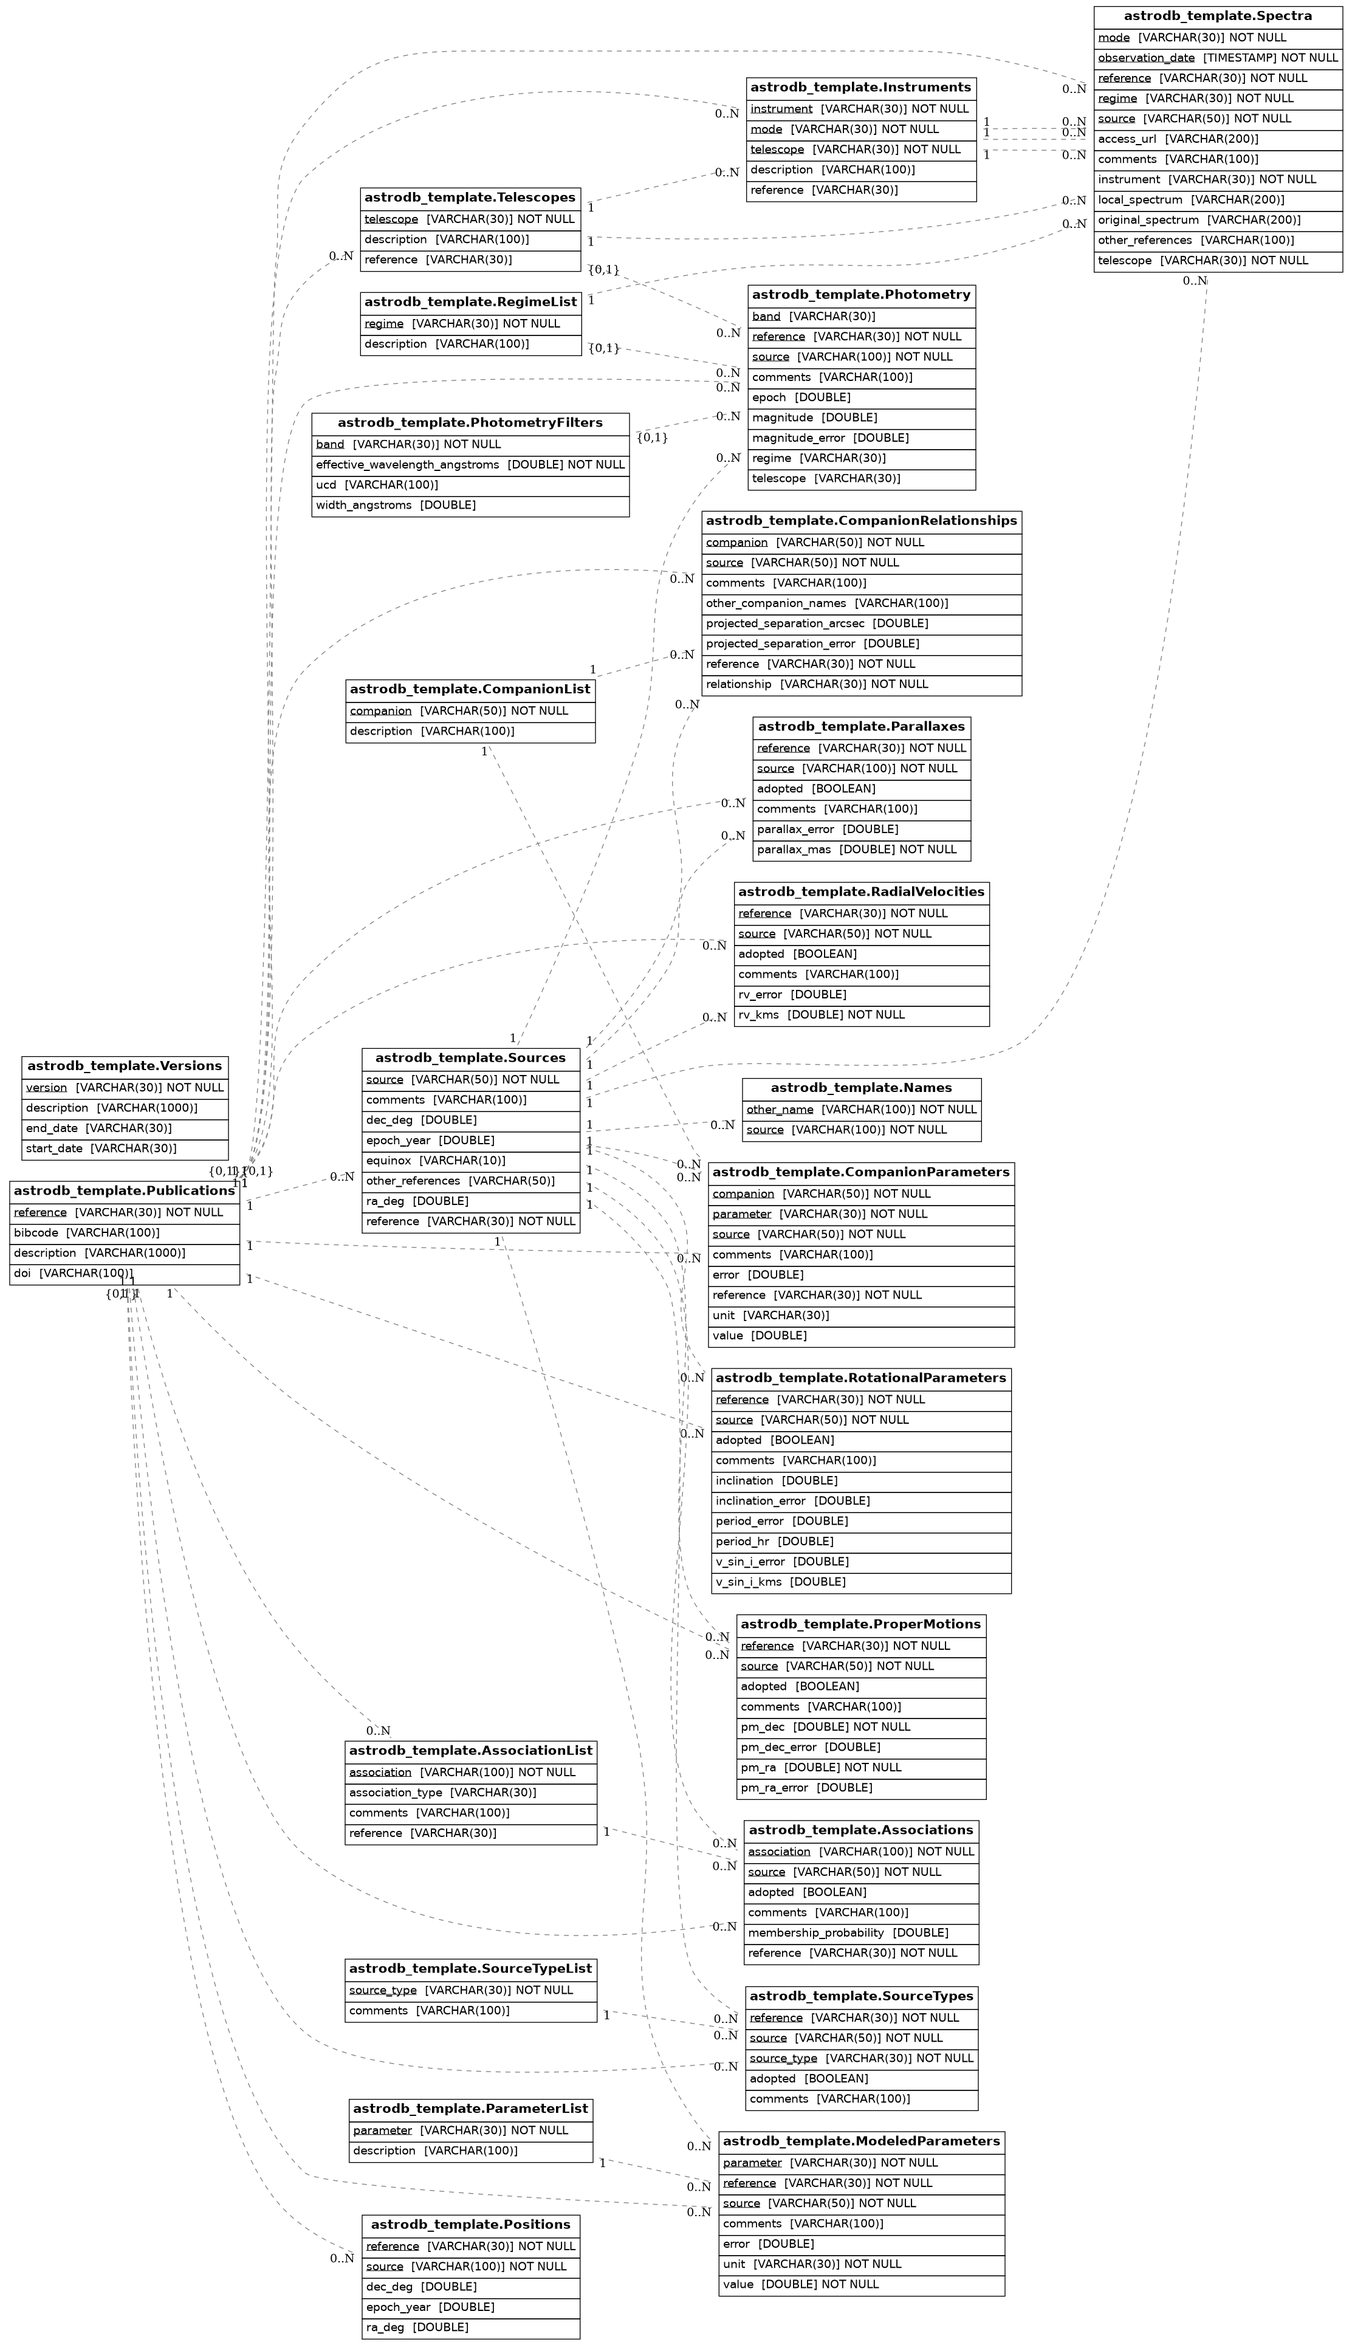
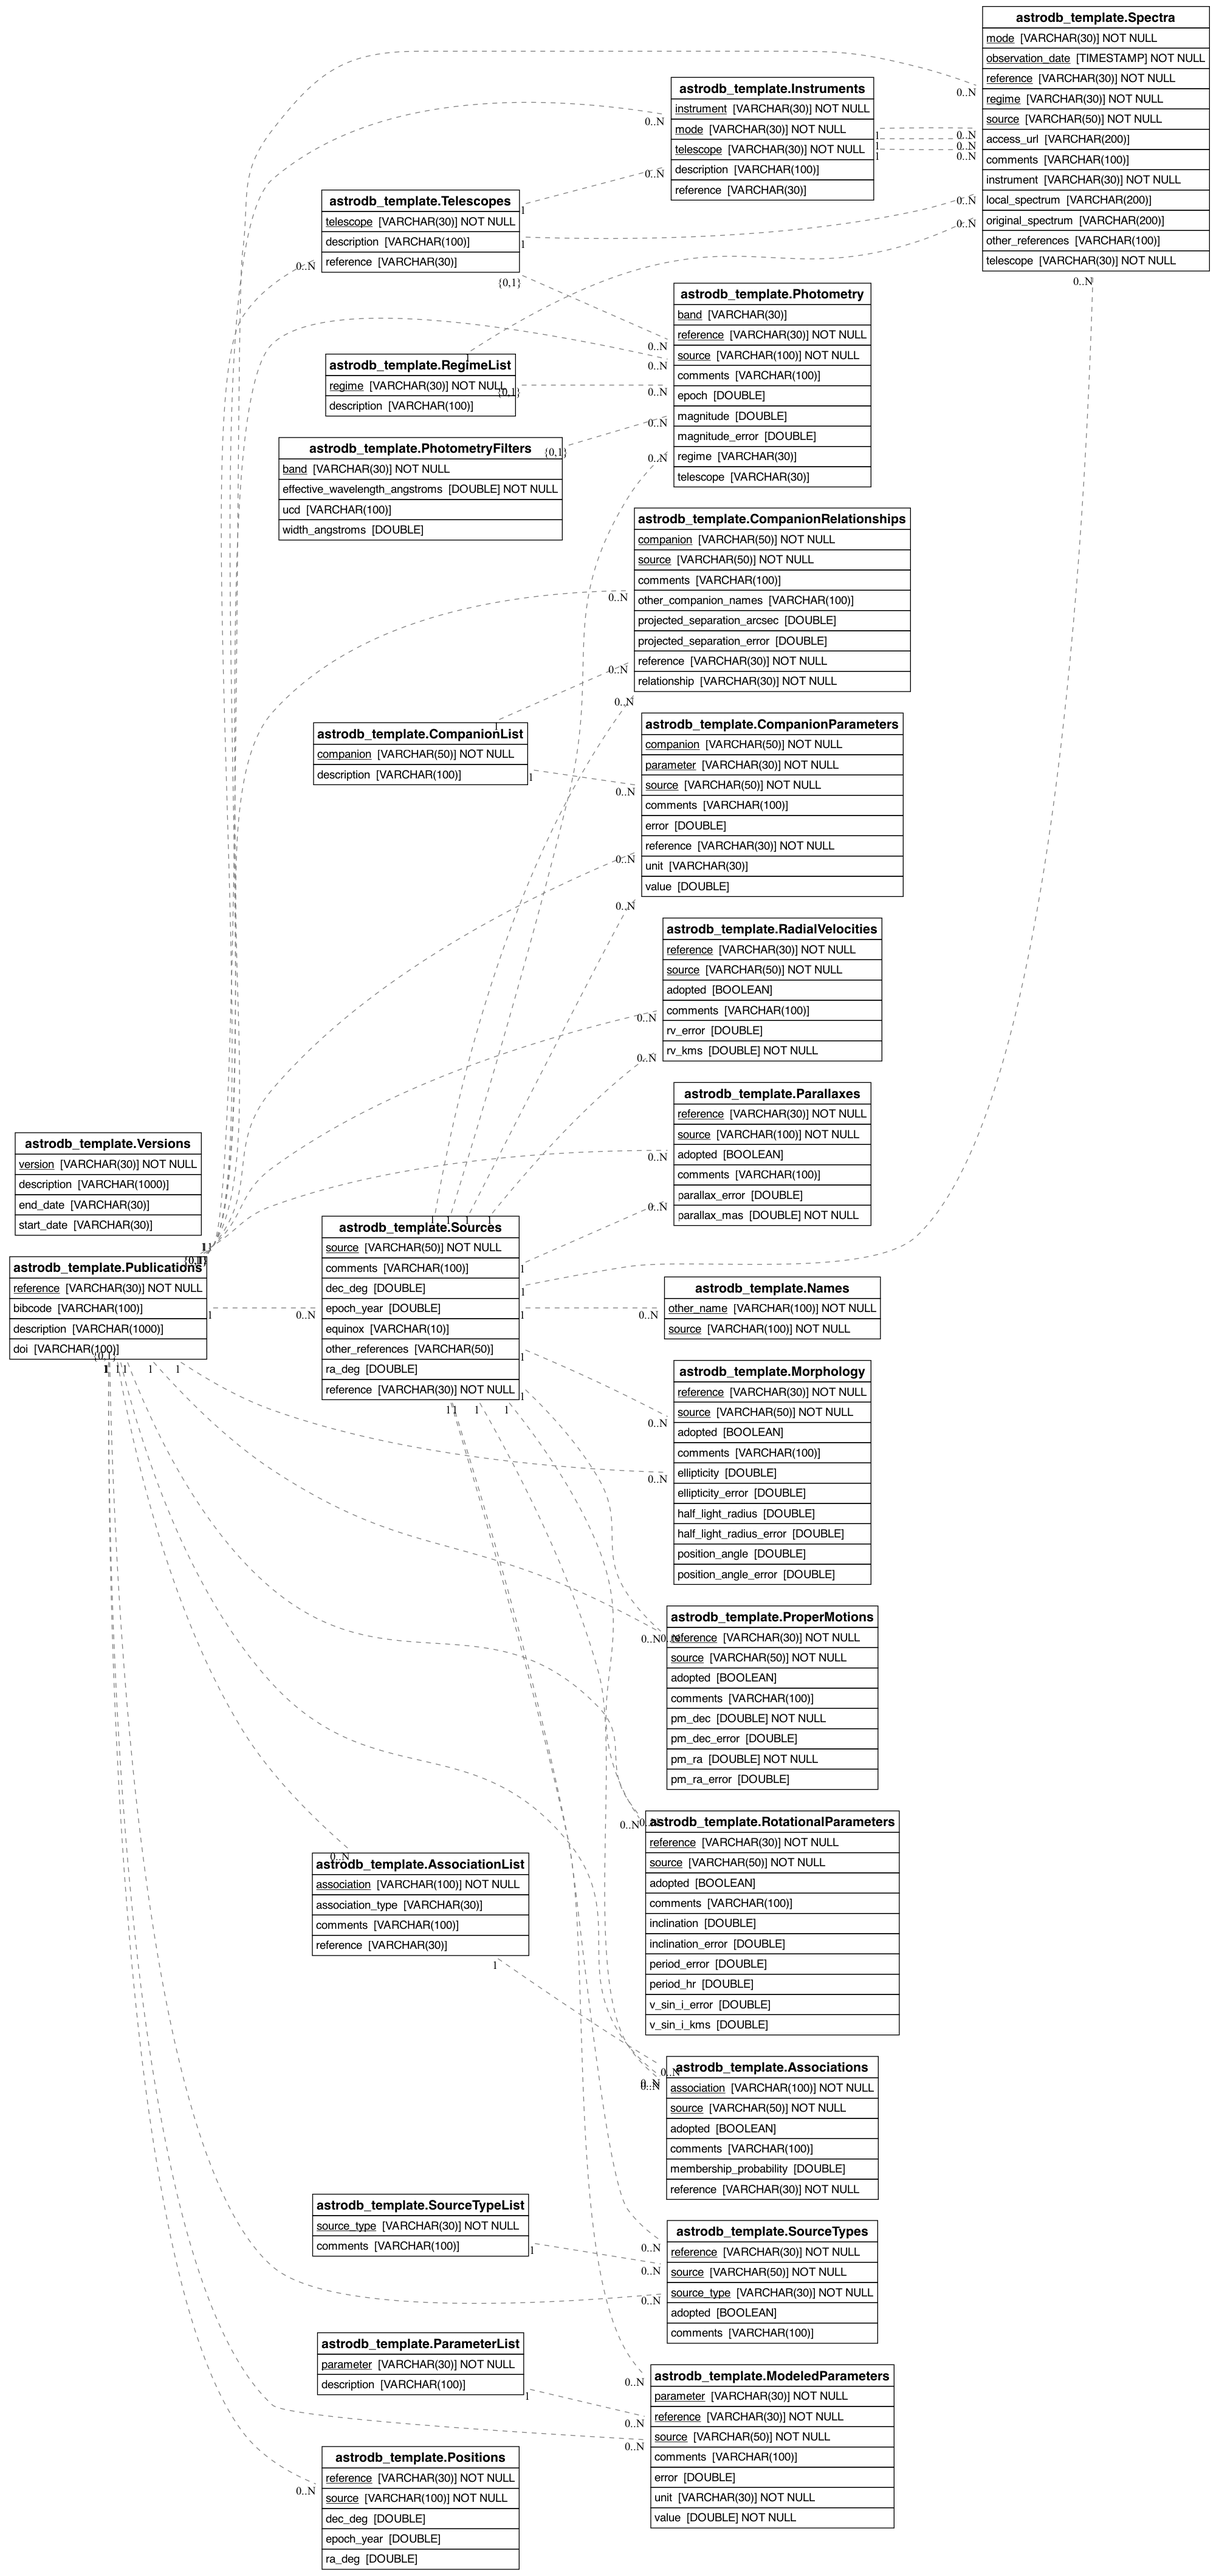
Create Morphology table

diff --git a/scripts/build_schema_docs.py b/scripts/build_schema_docs.py
@@ -1,8 +1,8 @@
-# Script to build markdown documentation from the schema/schema.yaml file
+# Script to build markdown documentation from the schema.yaml file
 import os
 import yaml
 
-SCHEMA_PATH = "schema/schema.yaml"
+SCHEMA_PATH = "schema.yaml"
 DOCS_DIR = "docs/"
 SCHEMA_DIAGRAM = "figures/schema_erd.png"
 SCHEMA_SUB_DIR = "schema/"

diff --git a/scripts/make_schema_erd.py b/scripts/make_schema_erd.py
@@ -10,7 +10,7 @@ from felis.metadata import MetaDataBuilder
 sys.path.append("./")  # needed for github actions to find the template module
 
 # Load up schema
-data = yaml.safe_load(open("schema/schema.yaml", "r"))
+data = yaml.safe_load(open("schema.yaml", "r"))
 schema = Schema.model_validate(data)
 
 # Create from Felis schema

diff --git a/docs/schema/Morphology.md b/docs/schema/Morphology.md
@@ -1,0 +1,32 @@
+# Morphology
+The Morphology table contains morphological measurements for sources listed in the Sources table. The combination of *source* and *reference* is expected to be unique.
+
+
+Columns marked with an exclamation mark (❗) may not be empty.
+| Column Name | Description | Datatype | Length | Units  | UCD |
+| --- | --- | --- | --- | --- | --- |
+| ❗ <ins>source</ins> | Unique identifier for a source; links to Sources table | string | 50 |  | meta.id;meta.main  |
+| position_angle | Position angle of the source | double |  | deg | pos.posAng  |
+| position_angle_error | Uncertainty of the position angle | double |  | deg | stat.error;pos.posAng  |
+| ellipticity | Ellipticity of the source (0-1) | double |  |  | phys.size.axisRatio  |
+| ellipticity_error | Uncertainty of the ellipticity | double |  |  | stat.error;phys.size.axisRatio  |
+| half_light_radius | Half-light radius of the source | double |  | arcmin | phys.size  |
+| half_light_radius_error | Uncertainty of the half-light radius | double |  | arcmin | stat.error;phys.size  |
+| adopted | Flag to indicate if this is the adopted entry | boolean |  |  | meta.code  |
+| comments | Free form comments | string | 100 |  | meta.note  |
+| ❗ <ins>reference</ins> | Reference; links to Publications table | string | 30 |  | meta.ref  |
+
+## Indexes
+| Name | Columns | Description |
+| --- | --- | --- |
+| PK_Morphology | ['#Morphology.source', '#Morphology.reference'] | Primary key for Morphology table |
+
+## Foreign Keys
+| Description | Columns | Referenced Columns |
+| --- | --- | --- |
+| Link Morphology source to Sources table | ['#Morphology.source'] | ['#Sources.source'] |
+| Link Morphology reference to Publications table | ['#Morphology.reference'] | ['#Publications.reference'] |
+## Checks
+| Description | Expression |
+| --- | --- |
+| Validate ellipticity range | ellipticity >= 0 AND ellipticity <= 1 |

diff --git a/docs/README.md b/docs/README.md
@@ -1,5 +1,5 @@
 # Schema Documentation
-This documentation is generated from the [schema.yaml](schema/schema.yaml) file using [build_schema_docs.py](scripts/build_schema_docs.py).
+This documentation is generated from the [schema.yaml](schema.yaml) file using [build_schema_docs.py](scripts/build_schema_docs.py).
 
 ## Tables
 - [Publications](schema/Publications.md)
@@ -25,8 +25,9 @@ This documentation is generated from the [schema.yaml](schema/schema.yaml) file 
 - [ProperMotions](schema/ProperMotions.md)
 - [ModeledParameters](schema/ModeledParameters.md)
 - [RotationalParameters](schema/RotationalParameters.md)
+- [Morphology](schema/Morphology.md)
 - [Spectra](schema/Spectra.md)
 
 ## Schema Diagram
-This diagram is generated from the [schema.yaml](schema/schema.yaml) file using [make_schema_erd.py](scripts/make_schema_erd.py).
+This diagram is generated from the [schema.yaml](schema.yaml) file using [make_schema_erd.py](scripts/make_schema_erd.py).
 ![Schema Diagram](figures/schema_erd.png)

diff --git a/docs/schema/Positions.md b/docs/schema/Positions.md
@@ -14,14 +14,12 @@ Columns marked with an exclamation mark (❗) may not be empty.
 ## Indexes
 | Name | Columns | Description |
 | --- | --- | --- |
-| PK_Positions | ['#Positions.source', '#Positions.reference'] | Primary key for Positions table |
+| PK_Positions_source | ['#Positions.source', '#Positions.reference'] | Primary key for Positions table |
 
 ## Foreign Keys
 | Description | Columns | Referenced Columns |
 | --- | --- | --- |
-| Link Positions source to Sources table | ['#Positions.source'] | ['#Sources.source'] |
 | Link Positions reference to Publications table | ['#Positions.reference'] | ['#Publications.reference'] |
-
 ## Checks
 | Description | Expression |
 | --- | --- |
